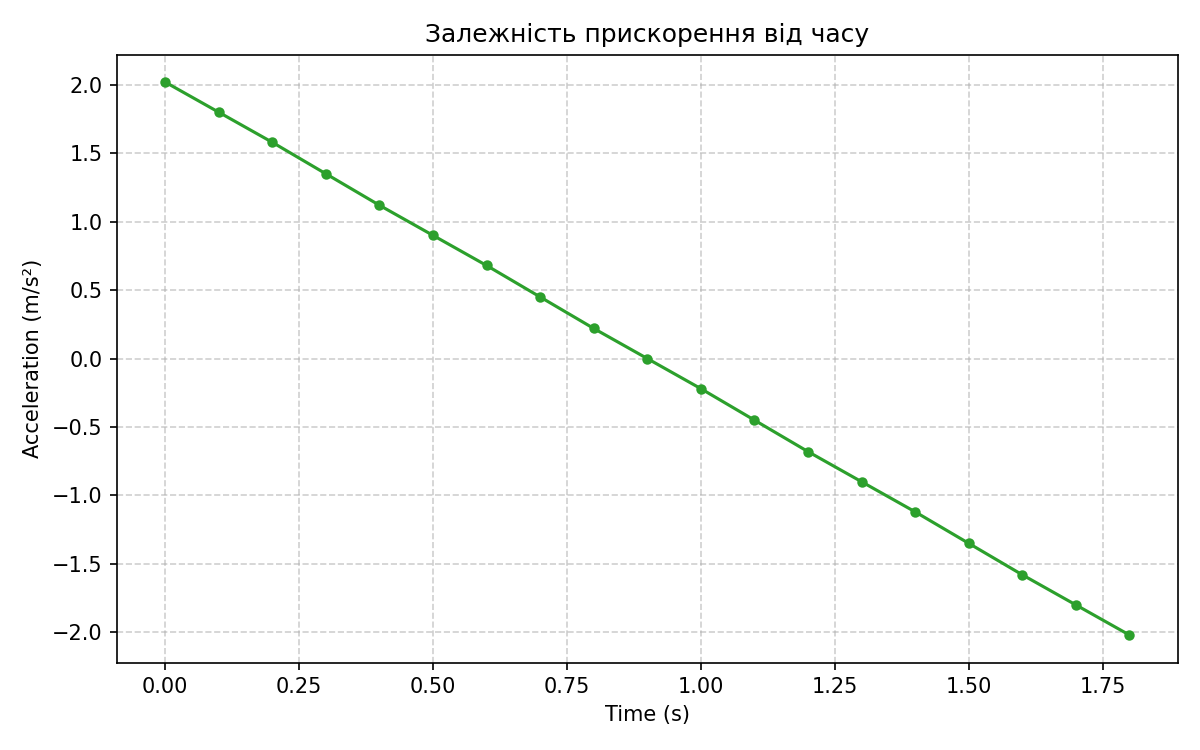
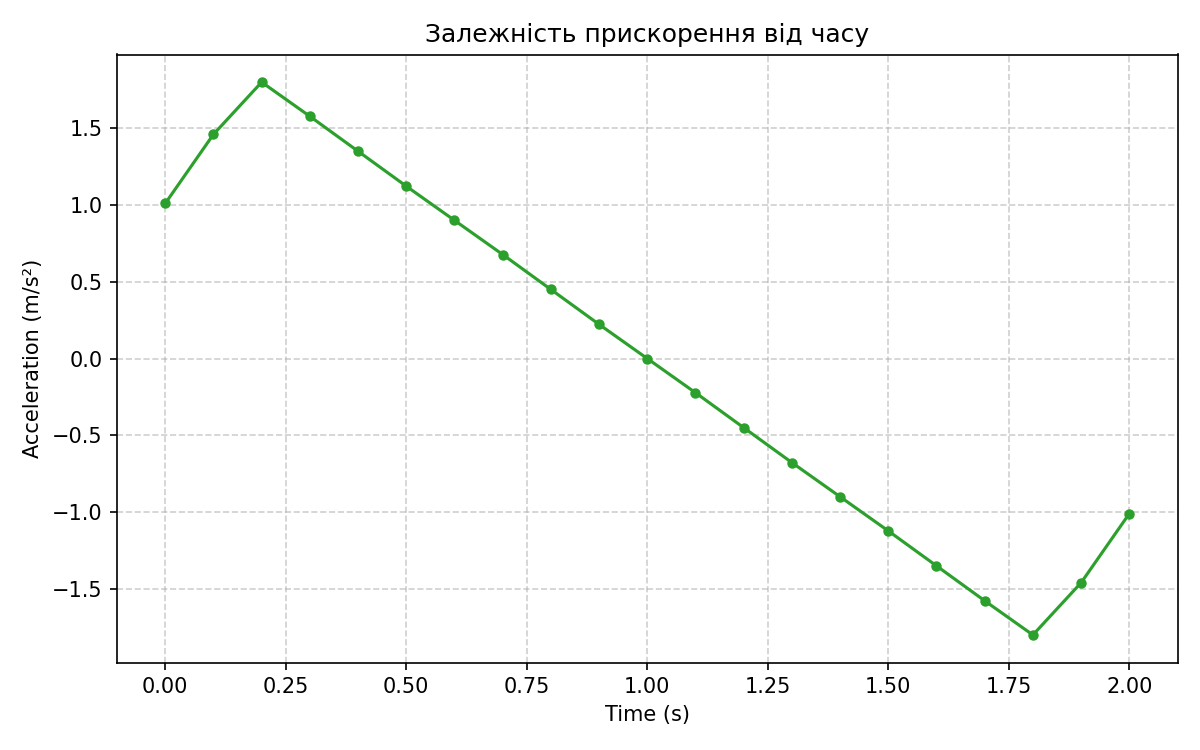
Use central difference for interior points, one-sided at endpoints
- numerical_derivative(): central diff (i=1..n-2), forward/backward
  one-sided diff at the boundary indices, with method explained in
  the docstring
- Regenerate velocity/acceleration plots (no more NaN gaps)

diff --git a/python/analyze.py b/python/analyze.py
@@ -50,25 +50,30 @@ def plot_displacement(t: np.ndarray, y: np.ndarray, save_path: Path) -> None:
     plt.show()
 
 
-def compute_velocity(t: np.ndarray, y: np.ndarray) -> np.ndarray:
-    """Compute velocity v(t) as the numerical derivative of displacement y(t)."""
-    dt = np.diff(t)
-    dy = np.diff(y)
-    v = dy / dt
+def numerical_derivative(t: np.ndarray, f: np.ndarray) -> np.ndarray:
+    """Чисельна похідна f(t): центральна різниця у внутрішніх точках
+    (i = 1..n-2, використовує сусідів з обох боків, похибка O(dt^2)),
+    одностороння різниця на краях (i = 0 і i = n-1, де сусід є лише
+    з одного боку, похибка O(dt))."""
+    d = np.empty_like(f, dtype=float)
+    d[0] = (f[1] - f[0]) / (t[1] - t[0])
+    d[-1] = (f[-1] - f[-2]) / (t[-1] - t[-2])
+    d[1:-1] = (f[2:] - f[:-2]) / (t[2:] - t[:-2])
+    return d
 
-    v = np.append(v, np.nan)
-    return v
+
+def compute_velocity(t: np.ndarray, y: np.ndarray) -> np.ndarray:
+    """швидкість v(t) як перша похідна переміщення y(t)."""
+    return numerical_derivative(t, y)
+
 
 def compute_acceleration(t: np.ndarray, v: np.ndarray) -> np.ndarray:
-    """Compute acceleration a(t) as the numerical derivative of velocity v(t)."""
-    dt = np.diff(t)
-    dv = np.diff(v)
-    a = dv / dt
-
-    a = np.append(a, np.nan)
-    return a
+    """прискорення a(t) як друга похідна переміщення (перша
+    похідна v(t))."""
+    return numerical_derivative(t, v)
 
 def plot_velocity(t: np.ndarray, v: np.ndarray, save_path: Path) -> None:
+    """Plot velocity v(t) and save to file."""
     fig, ax = plt.subplots(figsize=(8, 5))
     ax.plot(t, v, "o-", color="tab:orange", markersize=4)
     ax.set_xlabel("Time (s)")
@@ -80,6 +85,7 @@ def plot_velocity(t: np.ndarray, v: np.ndarray, save_path: Path) -> None:
     print(f"Saved plot: {save_path}")
     plt.show()
 def plot_acceleration(t: np.ndarray, a: np.ndarray, save_path: Path) -> None:
+    """Plot acceleration a(t) and save to file."""
     fig, ax = plt.subplots(figsize=(8, 5))
     ax.plot(t, a, "o-", color="tab:green", markersize=4)
     ax.set_xlabel("Time (s)")
@@ -101,13 +107,9 @@ def main() -> None:
     plot_displacement(t, y, OUTPUT_DIR / "displacement_plot.png")
     plot_velocity(t, compute_velocity(t, y), OUTPUT_DIR / "velocity_plot.png")
     plot_acceleration(t, compute_acceleration(t, compute_velocity(t, y)), OUTPUT_DIR / "acceleration_plot.png")
-    
 
 
 
-    # TODO (завдання):
-    # 1. Обчисліть швидкість і прискорення чисельними похідними.
-    # 2. Побудуйте графіки v(t) та a(t), збережіть як .png у цій папці.
 
 if __name__ == "__main__":
     main()
